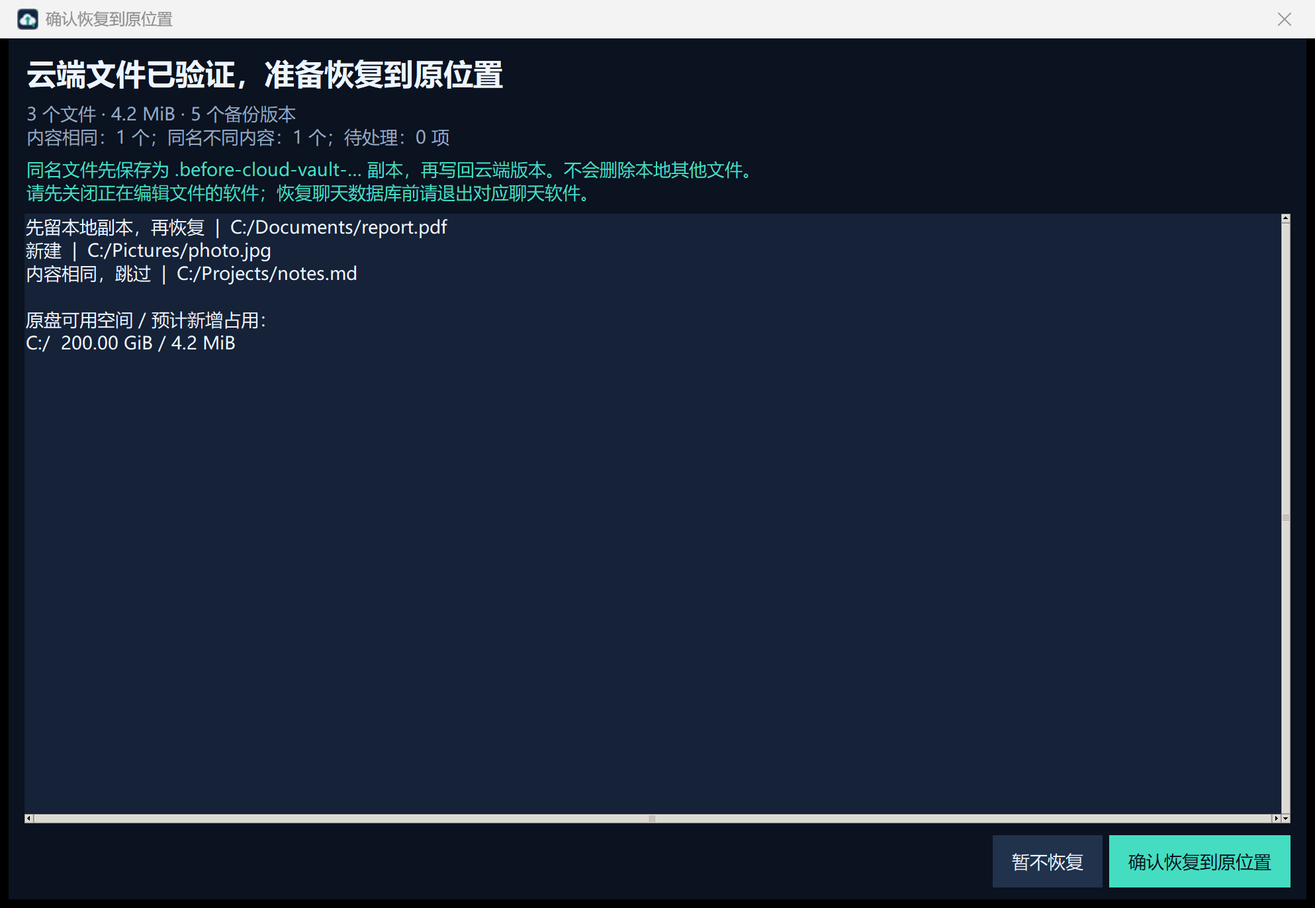
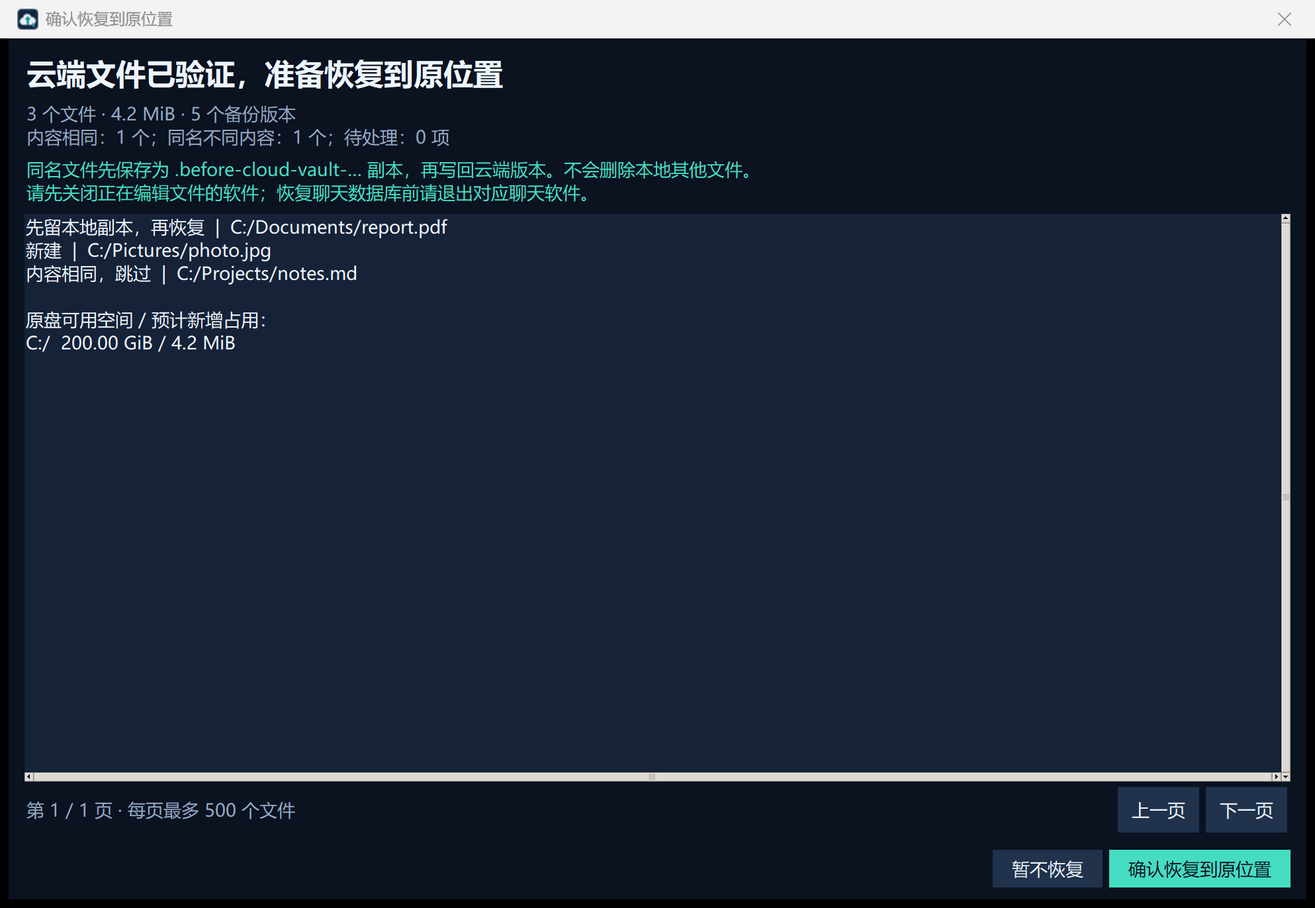
Require recovery key selection and final confirmation; bound UI resource retention

Changed region(s): [[0.0, 0.8265, 0.9985, 0.9796]]

diff --git a/tests/test_restore_flow.py b/tests/test_restore_flow.py
@@ -1,0 +1,119 @@
+import gc,json,os,pathlib,runpy,sys,tracemalloc,unittest
+from unittest.mock import Mock,patch
+import test_backup as fixtures
+from configuration import read_recovery_key
+from background import BackgroundClient,main
+from engine import BackupError,GitHub,Index,Paused
+from recovery import RecoveryEngine
+import test_recovery as recovery_fixtures
+
+class FlowTests(unittest.TestCase):
+    setUp=fixtures.Tests.setUp;tearDown=fixtures.Tests.tearDown;engine=fixtures.Tests.engine
+    def test_repeated_deep_and_quick_scans_never_upload_identical_content(self):
+        f=self.src/'same.txt';f.write_text('unchanged');self.c['roots'].append(str(self.src))
+        self.engine().run();count=self.remote.uploads
+        for deep in [False,True,True,False]:self.engine().run(deep=deep)
+        self.assertEqual(count,self.remote.uploads)
+    def test_staging_does_not_copy_full_index(self):
+        (self.src/'a.txt').write_text('content');e=self.engine()
+        try:
+            pending,_=e.make_snapshot(False)
+            with patch.object(e.index,'all',side_effect=AssertionError('full index copied')):e.stage(*pending)
+        finally:e.index.close()
+    def test_key_format_is_bounded_and_validated(self):
+        self.assertEqual(len(read_recovery_key(self.key)),32)
+        for data in [b'',b'g'*64,b'a'*65,b'a'*1000000,b'\xff'*64]:
+            self.key.write_bytes(data)
+            with self.assertRaises(ValueError):read_recovery_key(self.key)
+    def test_task_key_override_never_changes_backup_config(self):
+        c=dict(self.c);selected=self.base/'selected.txt';selected.write_text(os.urandom(32).hex())
+        argv=['background.py','--config',str(self.base/'config.json'),'--run-id','test','--operation','restore','--recovery-key',str(selected)]
+        with patch('sys.argv',argv),patch('background.load_config',return_value=c),patch('background.Worker') as worker:
+            main();actual=worker.call_args.args[0]
+        self.assertEqual(actual['key_file'],str(selected.resolve()));self.assertEqual(c,self.c)
+    def test_child_command_contains_key_path_not_key_contents(self):
+        client=BackgroundClient(self.base/'config.json',self.state)
+        with patch('background.worker_active',return_value=False),patch('background.subprocess.Popen') as launch:
+            client.start(operation='restore',recovery_key=self.key)
+        args=launch.call_args.args[0];self.assertIn(str(self.key.resolve()),args);self.assertNotIn(self.key.read_text(),args)
+    def test_completed_process_reference_is_released(self):
+        client=BackgroundClient(self.base/'config.json',self.state);client.process=Mock();client.process.poll.return_value=None
+        self.assertFalse(client.reap_finished());client.process.poll.return_value=0
+        self.assertTrue(client.reap_finished());self.assertIsNone(client.process)
+    def test_restore_failure_closes_session_and_drops_catalog(self):
+        e=RecoveryEngine(self.c,remote=self.remote);remote=object.__new__(GitHub);remote.session=Mock();e.remote=remote
+        e.catalog={'fixture':{'source':'fixture'}};e.confirm_restore=lambda r:True
+        with patch.object(e,'_run',side_effect=Paused()):
+            with self.assertRaises(Paused):e.run()
+        remote.session.close.assert_called_once();self.assertEqual(e.catalog,{});self.assertEqual(e.key,b'');self.assertIsNone(e.confirm_restore)
+
+class KeyRecoveryTests(unittest.TestCase):
+    setUp=recovery_fixtures.RecoveryTests.setUp;tearDown=recovery_fixtures.RecoveryTests.tearDown;backup=recovery_fixtures.RecoveryTests.backup;recovery=recovery_fixtures.RecoveryTests.recovery
+    def test_wrong_key_never_writes_originals(self):
+        f=self.src/'a.txt';f.write_text('cloud');self.backup();f.unlink();self.key.write_text(os.urandom(32).hex())
+        e=self.recovery();e.confirm_restore=Mock(return_value=True)
+        with self.assertRaisesRegex(BackupError,'密钥'):e.run()
+        self.assertFalse(f.exists())
+
+class GuiTests(unittest.TestCase):
+    @classmethod
+    def setUpClass(cls):
+        import tkinter as tk
+        cls.tk=tk
+        try:cls.root=tk.Tk();cls.root.withdraw()
+        except tk.TclError:raise unittest.SkipTest('Tk display unavailable')
+        cls.module=runpy.run_path(str(pathlib.Path(__file__).resolve().parent.parent/'app.pyw'))
+    @classmethod
+    def tearDownClass(cls):cls.root.destroy()
+    def request(self,n=1000):
+        return {'request_id':'fixture','count':n,'bytes':n,'releases':1,'conflicts':1,'identical':0,'issues':[],'volumes':{},'files':[{'selection_id':str(i),'source':f'C:/Documents/fixture-{i}.txt','action':'create','size':1,'kind':'new'} for i in range(n)]}
+    def test_final_confirmation_no_then_yes(self):
+        from recovery_ui import RestoreReview
+        approve=Mock();w=RestoreReview(self.root,self.request(),approve,Mock())
+        try:
+            with patch('recovery_ui.messagebox.askyesno',return_value=False):w.submit()
+            approve.assert_not_called();self.assertTrue(w.window.winfo_exists())
+            with patch('recovery_ui.messagebox.askyesno',return_value=True):w.submit()
+            approve.assert_called_once_with('fixture');self.assertEqual(w.files,[]);self.assertEqual(w.request,{})
+        finally:
+            if w.window.winfo_exists():w.window.destroy()
+    def test_restore_rows_are_paged(self):
+        from recovery_ui import RestoreReview
+        w=RestoreReview(self.root,self.request(2000),Mock(),Mock())
+        try:
+            self.assertNotIn('fixture-500.txt',w.text.get('1.0','end'));w.change_page(1)
+            self.assertIn('fixture-500.txt',w.text.get('1.0','end'));self.assertNotIn('fixture-1000.txt',w.text.get('1.0','end'))
+        finally:w.window.destroy()
+    def test_repeated_dialogs_release_large_lists(self):
+        from selection import FileSelection
+        from recovery_ui import RestoreReview
+        def cycle():
+            for kind in (FileSelection,RestoreReview):
+                w=kind(self.root,self.request(10000),Mock(),Mock());w.window.destroy()
+                self.assertEqual(w.files,[]);self.assertEqual(w.request,{})
+            self.root.update_idletasks();gc.collect()
+        tracemalloc.start()
+        try:
+            cycle();baseline=tracemalloc.get_traced_memory()[0]
+            for _ in range(12):cycle()
+            growth=tracemalloc.get_traced_memory()[0]-baseline
+            type(self).memory_growth_bytes=growth
+            self.assertLess(growth,2*1024*1024);self.assertEqual(self.root.winfo_children(),[])
+        finally:tracemalloc.stop()
+    def test_log_keeps_at_most_600_lines(self):
+        obj=Mock();obj.logbox=self.tk.Text(self.root)
+        try:
+            for i in range(1500):self.module['Window'].log(obj,'fixture '+str(i))
+            self.assertLessEqual(int(obj.logbox.index('end-1c').split('.')[0]),601)
+            self.assertNotIn('fixture 0\n',obj.logbox.get('1.0','end'))
+        finally:obj.logbox.destroy()
+    def test_picker_cancel_does_not_start_restore(self):
+        obj=Mock(running=False,config={'key_file':'key.txt','repo':'owner/repo'},root=self.root)
+        with patch('tkinter.filedialog.askopenfilename',return_value=''):
+            self.module['Window'].start_restore(obj)
+        obj.start.assert_not_called()
+    def test_picker_validates_then_confirms_task_key(self):
+        obj=Mock(running=False,config={'key_file':'key.txt','repo':'owner/repo'},root=self.root)
+        with patch('tkinter.filedialog.askopenfilename',return_value='selected.txt'),patch.dict(self.module['Window'].start_restore.__globals__,read_recovery_key=Mock()),patch('tkinter.messagebox.askyesno',return_value=True):
+            self.module['Window'].start_restore(obj)
+        obj.start.assert_called_once_with('restore',recovery_key='selected.txt');self.assertEqual(obj.config['key_file'],'key.txt')

diff --git a/recovery_ui.py b/recovery_ui.py
@@ -1,18 +1,21 @@
 """Explicit original-location restore review, with no background file writes before approval."""
 import tkinter as tk
-from tkinter import ttk
+from tkinter import ttk, messagebox
 from pathlib import Path
 
 def size(n):return f'{n/1024**3:,.2f} GiB' if n>=1024**3 else f'{n/1024**2:,.1f} MiB'
 
 class RestoreReview:
+    PAGE_SIZE=500
     def __init__(self,parent,request,approve,pause):
+        self.request=request;self.files=request['files'];self.approve=approve;self.pause=pause;self.page=0
         self.window=tk.Toplevel(parent);w=self.window;w.title('确认恢复到原位置');w.configure(bg='#0b1220')
+        w.bind('<Destroy>',self.dispose)
         scale=min(float(w.tk.call('tk','scaling'))/(96/72),(w.winfo_screenwidth()-80)/980)
         w.geometry(f'{int(980*scale)}x{min(int(650*scale),w.winfo_screenheight()-120)}')
         try:w.iconbitmap(str(Path(__file__).with_name('backup.ico')))
         except tk.TclError:pass
-        w.protocol('WM_DELETE_WINDOW',lambda:(pause(),w.destroy()))
+        w.protocol('WM_DELETE_WINDOW',self.cancel)
         tk.Label(w,text='云端文件已验证，准备恢复到原位置',bg='#0b1220',fg='#edf5ff',font=('Microsoft YaHei UI',17,'bold')).pack(anchor='w',padx=24,pady=(20,8))
         summary=f'{request["count"]:,} 个文件 · {size(request["bytes"])} · {request["releases"]} 个备份版本\n内容相同：{request["identical"]:,} 个；同名不同内容：{request["conflicts"]:,} 个；待处理：{len(request["issues"]):,} 项'
         tk.Label(w,text=summary,justify='left',bg='#0b1220',fg='#93a9c5').pack(anchor='w',padx=24,pady=(0,8))
@@ -22,12 +25,30 @@ class RestoreReview:
         y=ttk.Scrollbar(frame,orient='vertical',command=text.yview);y.pack(side='right',fill='y')
         x=ttk.Scrollbar(frame,orient='horizontal',command=text.xview);x.pack(side='bottom',fill='x')
         text.configure(yscrollcommand=y.set,xscrollcommand=x.set);text.pack(fill='both',expand=True)
-        labels={'create':'新建','replace':'先留本地副本，再恢复','unchanged':'内容相同，跳过','blocked':'需要处理权限或路径'}
-        lines=[f'{labels.get(r["action"],r["action"])}  |  {r["source"]}' for r in request['files']]
-        if request['issues']:lines+=['','待处理问题：']+[r['source']+'  '+r['error'] for r in request['issues']]
-        lines+=['','原盘可用空间 / 预计新增占用：']+[d+'  '+size(v['free'])+' / '+size(v['required']) for d,v in request['volumes'].items()]
-        text.insert('end','\n'.join(lines));text.configure(state='disabled')
+        self.text=text
+        navigation=tk.Frame(w,bg='#0b1220');navigation.pack(fill='x',padx=24,pady=8)
+        self.page_label=tk.StringVar();tk.Label(navigation,textvariable=self.page_label,bg='#0b1220',fg='#93a9c5').pack(side='left')
+        for label,delta in [('下一页',1),('上一页',-1)]:tk.Button(navigation,text=label,command=lambda d=delta:self.change_page(d),bg='#20324c',fg='#edf5ff',relief='flat',padx=10,pady=5).pack(side='right',padx=5)
         actions=tk.Frame(w,bg='#0b1220');actions.pack(fill='x',padx=24,pady=18)
-        tk.Button(actions,text='确认恢复到原位置',command=lambda:(approve(request['request_id']),w.destroy()),bg='#44ddc2',fg='#0b1220',relief='flat',padx=18,pady=10).pack(side='right')
-        tk.Button(actions,text='暂不恢复',command=lambda:(pause(),w.destroy()),bg='#20324c',fg='#edf5ff',relief='flat',padx=18,pady=10).pack(side='right',padx=10)
-        w.transient(parent);w.lift()
+        tk.Button(actions,text='确认恢复到原位置',command=self.submit,bg='#44ddc2',fg='#0b1220',relief='flat',padx=18,pady=10).pack(side='right')
+        tk.Button(actions,text='暂不恢复',command=self.cancel,bg='#20324c',fg='#edf5ff',relief='flat',padx=18,pady=10).pack(side='right',padx=10)
+        self.render();w.transient(parent);w.lift()
+    def render(self):
+        labels={'create':'新建','replace':'先留本地副本，再恢复','unchanged':'内容相同，跳过','blocked':'需要处理权限或路径'}
+        lines=[f'{labels.get(r["action"],r["action"])}  |  {r["source"]}' for r in self.files[self.page*self.PAGE_SIZE:(self.page+1)*self.PAGE_SIZE]]
+        issues=self.request['issues']
+        if issues:lines+=['','待处理问题（最多显示 50 项，完整内容见恢复报告）：']+[r['source']+'  '+r['error'] for r in issues[:50]]
+        lines+=['','原盘可用空间 / 预计新增占用：']+[d+'  '+size(v['free'])+' / '+size(v['required']) for d,v in self.request['volumes'].items()]
+        self.text.configure(state='normal');self.text.delete('1.0','end');self.text.insert('end','\n'.join(lines));self.text.configure(state='disabled')
+        self.page_label.set(f'第 {self.page+1} / {max(1,(len(self.files)+self.PAGE_SIZE-1)//self.PAGE_SIZE)} 页 · 每页最多 {self.PAGE_SIZE} 个文件')
+    def change_page(self,delta):
+        self.page=max(0,min(self.page+delta,max(0,(len(self.files)-1)//self.PAGE_SIZE)));self.render()
+    def submit(self):
+        if not messagebox.askyesno('最后确认：写回原位置',f'将按清单处理 {self.request["count"]:,} 个文件。\n其中 {self.request["conflicts"]:,} 个同名不同内容文件会先保留本地副本，再写回云端版本。\n\n请确认已关闭占用这些文件的软件。现在开始写回？',parent=self.window):return
+        try:self.approve(self.request['request_id'])
+        except Exception as ex:messagebox.showerror('无法确认恢复',str(ex),parent=self.window);return
+        self.window.destroy()
+    def cancel(self):self.pause();self.window.destroy()
+    def dispose(self,event=None):
+        if event is not None and event.widget!=self.window:return
+        self.request={};self.files=[];self.approve=None;self.pause=None

diff --git a/engine.py b/engine.py
@@ -17,7 +17,7 @@ import re
 from urllib.parse import urlsplit
 import requests
 from cryptography.hazmat.primitives.ciphers import Cipher, algorithms, modes
-from configuration import validate_config, parse_repo
+from configuration import validate_config, parse_repo, read_recovery_key
 from cache_cleanup import clean_backup
 
 MAGIC = b'PCBK001\n'
@@ -111,6 +111,9 @@ class Index:
     def all(self):
         return {r[0]: dict(zip(('path', 'source', 'size', 'mtime_ns', 'sha256', 'tag', 'present'), r))
                 for r in self.db.execute('SELECT * FROM files')}
+    def get(self,path):
+        row=self.db.execute('SELECT * FROM files WHERE path=?',(norm(path),)).fetchone()
+        return dict(zip(('path','source','size','mtime_ns','sha256','tag','present'),row)) if row else None
     def unchanged_content(self, row):
         with self.db:
             self.db.execute('UPDATE files SET size=?,mtime_ns=? WHERE path=?',
@@ -275,7 +278,7 @@ class Engine:
         self.c = config = validate_config(config); self.emit = emit; self.cancel = cancel or threading.Event(); self.remote = remote
         self.state = Path(config['state_dir']); self.state.mkdir(parents=True, exist_ok=True)
         self.runs = self.state / 'runs'; self.runs.mkdir(exist_ok=True)
-        self.key = bytes.fromhex(Path(config['key_file']).read_text().strip())
+        self.key = read_recovery_key(config['key_file'])
         if len(self.key) != 32: raise BackupError('恢复密钥格式不正确')
         self.identity = {'repo':config['repo'].lower(), 'key_id':hashlib.sha256(self.key).hexdigest(), 'repo_id':config.get('repo_id')}
         self.index = Index(self.state / 'index.sqlite')
@@ -352,7 +355,7 @@ class Engine:
     def save(self, folder, snapshot): atomic_json(folder / 'run.json', snapshot)
     def stage(self, folder, snapshot):
         staged = {norm(r['source']): r for r in snapshot['files']}
-        old = self.index.all(); spool = folder / 'spool'; spool.mkdir(exist_ok=True)
+        spool = folder / 'spool'; spool.mkdir(exist_ok=True)
         self.emit('phase', '读取变动文件并生成安全副本')
         for row in snapshot['selected']:
             self.check(); key = norm(row['source'])
@@ -369,7 +372,7 @@ class Engine:
                 if (before.st_size, before.st_mtime_ns) != (after.st_size, after.st_mtime_ns) or size != before.st_size:
                     raise OSError('读取期间文件仍在变化，本轮跳过，下次再备份')
                 row = dict(row, size=size, mtime_ns=before.st_mtime_ns, sha256=h.hexdigest(), file_id=file_id)
-                prev = old.get(key)
+                prev = self.index.get(key)
                 if prev and prev['present'] and prev['sha256'] == row['sha256']:
                     self.index.unchanged_content(row); row['same_content'] = True
                 else: os.replace(temp, dest)
@@ -531,8 +534,12 @@ class Engine:
             if not identity:atomic_json(self.state/'identity.json',self.identity)
             # Upgrade old local indexes without rewriting remote backups.
             if not self.index.db.execute("SELECT value FROM meta WHERE key='history_tags'").fetchone():
-                completed=[read_json(p) for p in self.runs.glob('*/run.json')]
-                completed=sorted((r for r in completed if r and r.get('status')=='completed' and r.get('release_id')),key=lambda r:(r.get('created',''),r['tag']))
+                completed=[]
+                for p in self.runs.glob('*/run.json'):
+                    item=read_json(p)
+                    if item and item.get('status')=='completed' and item.get('release_id'):completed.append({'created':item.get('created',''),'tag':item['tag']})
+                    item=None
+                completed.sort(key=lambda r:(r['created'],r['tag']))
                 ordered=[r['tag'] for r in completed];older=sorted({r['tag'] for r in self.index.all().values()}-set(ordered))
                 history=list(dict.fromkeys(older+ordered))
                 with self.index.db:
@@ -545,6 +552,7 @@ class Engine:
                 if snapshot and snapshot['status'] != 'completed':
                     self.log('发现未完成备份，先恢复 ' + snapshot['tag'])
                     reports.append(self.process(folder, snapshot))
+                snapshot=None
             pending, report = self.make_snapshot(deep)
             if pending:
                 folder, snapshot = pending; reports.append(self.process(folder, snapshot))

diff --git a/background.py b/background.py
@@ -166,7 +166,7 @@ class Worker:
 class BackgroundClient:
     def __init__(self,config_path,state):
         self.config_path=Path(config_path).resolve();self.state=Path(state);self.process=None;self.run_id=None
-    def start(self,deep=False,operation='backup'):
+    def start(self,deep=False,operation='backup',recovery_key=None):
         self.state.mkdir(parents=True,exist_ok=True)
         if worker_active(self.state):
             self.run_id=safe_read(self.state/'worker-status.json',{}).get('run_id');return False
@@ -176,6 +176,7 @@ class BackgroundClient:
             executable=executable.with_name('pythonw.exe')
         command=[str(executable),str(Path(__file__).resolve()),'--config',str(self.config_path),'--run-id',self.run_id]
         if operation=='restore':command+=['--operation','restore']
+        if operation=='restore' and recovery_key is not None:command+=['--recovery-key',str(Path(recovery_key).resolve())]
         if deep:command.append('--deep')
         options={'stdin':subprocess.DEVNULL,'stdout':subprocess.DEVNULL,'stderr':subprocess.DEVNULL,'close_fds':True}
         if os.name=='nt':options['creationflags']=subprocess.DETACHED_PROCESS|subprocess.CREATE_NEW_PROCESS_GROUP
@@ -191,11 +192,19 @@ class BackgroundClient:
         atomic_json(self.state/'selection-response.json',{'run_id':self.run_id,'request_id':request_id,'selected':list(selected)})
     def approve_restore(self,request_id):
         atomic_json(self.state/'restore-response.json',{'run_id':self.run_id,'request_id':request_id,'approved':True})
+    def reap_finished(self):
+        if self.process is not None and self.process.poll() is not None:self.process=None
+        return self.process is None
 
 def main():
     parser=argparse.ArgumentParser();parser.add_argument('--config',required=True,type=Path);parser.add_argument('--run-id',required=True);parser.add_argument('--deep',action='store_true')
     parser.add_argument('--operation',choices=['backup','restore'],default='backup')
+    parser.add_argument('--recovery-key',type=Path)
     args=parser.parse_args();config=load_config(args.config)
+    if args.operation=='restore' and args.recovery_key:
+        from configuration import read_recovery_key
+        read_recovery_key(args.recovery_key)
+        config=dict(config,key_file=str(args.recovery_key.resolve()))
     return Worker(config,args.run_id,args.deep,operation=args.operation).run()
 
 if __name__=='__main__':raise SystemExit(main())

diff --git a/recovery.py b/recovery.py
@@ -4,7 +4,8 @@ import hashlib, json, os, re, shutil, tempfile, threading, uuid, zipfile
 from pathlib import Path, PureWindowsPath
 from urllib.parse import urlsplit
 import requests
-from configuration import protect
+from configuration import protect, read_recovery_key
+from cryptography.exceptions import InvalidTag
 from engine import BackupError, GitHub, IO, Paused, atomic_json, decrypt, digest, now, read_json
 from restore_incremental import mapped_target, check_target, restore
 from cache_cleanup import clean_restore
@@ -96,7 +97,7 @@ class RecoveryRemote(GitHub):
 class RecoveryEngine:
     def __init__(self,config,emit=lambda *a:None,cancel=None,remote=None):
         self.c=config;self.emit=emit;self.cancel=cancel or threading.Event();self.remote=remote
-        self.key=bytes.fromhex(Path(config['key_file']).read_text().strip())
+        self.key=read_recovery_key(config['key_file'])
         if len(self.key)!=32:raise BackupError('恢复密钥必须是 32 字节')
         identity=hashlib.sha256((config['repo'].lower()+':'+hashlib.sha256(self.key).hexdigest()).encode()).hexdigest()[:24]
         self.base=Path(config['state_dir'])/'restore'/identity;self.base.mkdir(parents=True,exist_ok=True)
@@ -260,6 +261,13 @@ class RecoveryEngine:
         finally:
             if temp.exists():temp.unlink()
     def run(self,deep=False):
+        try:return self._run(deep)
+        except InvalidTag:raise BackupError('解密校验失败：所选密钥不匹配，或备份内容已损坏。未将未验证内容写回原位置。') from None
+        finally:
+            if isinstance(self.remote,GitHub):self.remote.session.close()
+            self.catalog.clear();self.key=b''
+            self.confirm_restore=None
+    def _run(self,deep=False):
         review=self.prepare()
         if review['space_errors']:raise BackupError('恢复所需空间不足：'+', '.join(review['space_errors']))
         approve=getattr(self,'confirm_restore',None)

diff --git a/selection.py b/selection.py
@@ -16,6 +16,7 @@ class FileSelection:
         self.request=request;self.files=request['files'];self.by_id={r['selection_id']:r for r in self.files}
         self.selected=set(self.by_id);self.submit_callback=submit;self.cancel_callback=cancel;self.page=0
         self.window=tk.Toplevel(parent);self.window.title('选择本次上传的文件')
+        self.window.bind('<Destroy>',self.dispose)
         scale=min(max(1.0,float(parent.tk.call('tk','scaling'))/(96/72)),(parent.winfo_screenwidth()-100)/1000,(parent.winfo_screenheight()-130)/650)
         self.window.geometry(f'{int(1000*scale)}x{int(650*scale)}');self.window.minsize(int(850*scale),int(550*scale))
         self.window.configure(bg='#0b1220');self.window.transient(parent)
@@ -54,6 +55,10 @@ class FileSelection:
         self.window.protocol('WM_DELETE_WINDOW',self.cancel);self.filter();self.window.lift()
     def filter(self):
         query=self.query.get().strip().casefold();self.filtered=[r for r in self.files if query in r['source'].casefold()];self.page=0;self.render()
+    def dispose(self,event=None):
+        if event is not None and event.widget!=self.window:return
+        self.request={};self.files=[];self.filtered=[];self.by_id={};self.selected=set()
+        self.submit_callback=None;self.cancel_callback=None
     def render(self):
         for i in self.tree.get_children():self.tree.delete(i)
         for row in self.filtered[self.page*self.PAGE_SIZE:(self.page+1)*self.PAGE_SIZE]:

diff --git a/configuration.py b/configuration.py
@@ -12,6 +12,15 @@ from urllib.parse import urlsplit
 
 APP_NAME = 'CloudVault'
 
+def read_recovery_key(path):
+    """Bounded read: a key is 64 hexadecimal characters, never an arbitrary file."""
+    try:
+        with open(path,'rb') as f:raw=f.read(257)
+        text=raw.decode('ascii').strip()
+    except (OSError,UnicodeError):raise ValueError('无法读取密钥文件，请选择备份时保存的恢复密钥文本文件。') from None
+    if len(raw)>256 or not re.fullmatch(r'[0-9a-fA-F]{64}',text):raise ValueError('密钥格式错误：应为 64 个十六进制字符的恢复密钥文件。')
+    return bytes.fromhex(text)
+
 def app_home():
     if os.name == 'nt':
         return Path(os.environ.get('LOCALAPPDATA', Path.home() / 'AppData' / 'Local')) / APP_NAME

diff --git a/README.md b/README.md
@@ -40,6 +40,7 @@ python app.pyw
 ## 备份如何工作
 
 - 首次备份读取所选范围内所有未排除文件。后续先比较大小和修改时间，再计算候选文件的 SHA-256；只有内容变化才上传。“深度检查”还会发现大小、时间戳均未改变的内容变化。
+- 去重以同一路径的成功索引为准：内容相同，即使修改时间改变，也不重复上传；深度检查同样跳过未变内容。改名或复制到其他路径会作为新路径备份，不做跨路径内容去重。保留本地索引才能沿用此前的成功记录；删除索引或换用新状态目录可能重新上传。
 - 读取时验证文件大小和修改时间是否稳定。活跃文件、拒绝访问和缺失目录会进入本次报告，不会假报完全成功。无法访问的目录不会被误记成删除。
 - 使用随机 256 位恢复密钥和 AES-GCM；每个分包使用独立随机 nonce。文件名、原始路径和恢复清单也在加密包内。
 - 默认约 64 MiB 原始数据一个分包，大文件会被拆分；压缩和加密会改变实际上传体积。加密后先本地解密校验，再上传。
@@ -55,7 +56,9 @@ python app.pyw
 
 ### 一键恢复到原位置
 
-主界面点击 **一键恢复**。若有备份正在运行，先暂停当前任务。程序在独立后台进程中下载已完成的完整及增量版本、解密并校验，然后显示恢复清单、原路径、同名冲突、预计新增占用和各盘可用空间。确认后才写回原位置。
+主界面点击 **一键恢复**。若有备份正在运行，先暂停当前任务。先选择备份时导出的 **恢复密钥文件**，通过格式检查后确认仓库和密钥文件位置。所选密钥只用于这次恢复，不会替换备份配置中的密钥；格式正确仍需通过实际解密验证，错误密钥或损坏包会阻止写回。下载中断后重新选择同一密钥，可复用对应的恢复缓存。
+
+程序在独立后台进程中下载已完成的完整及增量版本、解密并校验，然后分页显示恢复清单、原路径、同名冲突、预计新增占用和各盘可用空间。点击“确认恢复到原位置”后还会出现最终确认弹窗，同意后才写回文件。取消文件选择或下载确认不启动新恢复；在清单中选择“暂不恢复”会保存进度并暂停。
 
 - 合并所有已完成版本，恢复每个路径最后一次成功备份的内容；历史上已删除的文件也会找回。不清理本地额外文件，不把每个历史版本分别覆盖到原位置。
 - 内容相同直接跳过。不同内容的本地文件先复制为同目录的 `文件名.before-cloud-vault-随机编号.扩展名`，校验副本后再原子替换；在报告中列出副本位置。
@@ -67,6 +70,10 @@ python app.pyw
 恢复缓存位于本地状态目录的 `restore` 子目录，限制当前账号访问，包含明文解密文件和加密下载缓存。全部文件恢复成功并再次核对落盘内容、保存报告后，默认自动清理；失败、暂停或文件再次变化时保留以便重试。同名冲突保留的本地副本不会被当成缓存删除。再次执行成功完成过的恢复任务需要重新下载。请预留恢复期间的空间。
 
 高级配置 `keep_local_cache: true` 和 `keep_restore_cache: true` 可分别保留备份或恢复缓存，默认均为 `false`。
+
+## 内存与资源
+
+文件内容按块处理，清单元数据仍随文件数量增长，并非固定内存占用。选择和恢复列表每页最多显示 500 个文件，窗口关闭后释放清单与回调；主窗口日志最多保留 600 行。后台每轮使用独立进程，结束时关闭数据库和网络连接；界面回收退出的子进程引用。恢复密钥读取限制为小文本文件，避免误选大文件后整体读入内存。测试覆盖反复开关万条记录的窗口、取消与错误路径以及内容不变时多轮扫描；这些检查不等于所有环境下绝无内存泄漏的保证。
 
 ### 恢复到单独目录（命令行）
 
